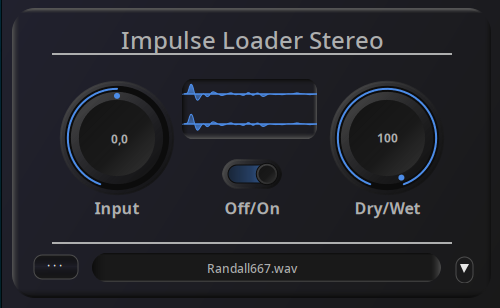
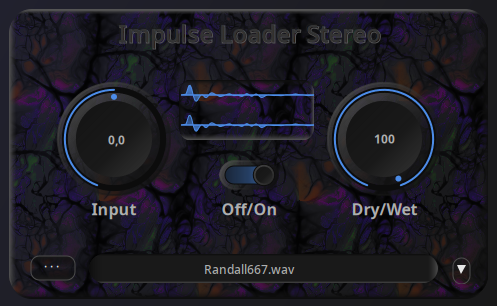
Implement background texture

diff --git a/ImpulseLoader/lv2_plugin.cc b/ImpulseLoader/lv2_plugin.cc
@@ -120,6 +120,12 @@ static void draw_window(void *w_, void* user_data) {
     cairo_paint (w->crb);
     round_rectangle(w->crb, 10 * w->app->hdpi, 10 * w->app->hdpi,
         w->width-20 * w->app->hdpi, w->height-20 * w->app->hdpi, 0.08);
+
+    cairo_pattern_t *pat = cairo_pattern_create_for_surface(w->image);
+    cairo_pattern_set_extend (pat, CAIRO_EXTEND_REPEAT);
+    cairo_set_source(w->crb, pat);
+    cairo_fill_preserve (w->crb);
+
     boxShadowOutset(w->crb,10 * w->app->hdpi,10 * w->app->hdpi,
         w->width-20 * w->app->hdpi,w->height-20 * w->app->hdpi, true);
     cairo_stroke (w->crb);
@@ -133,10 +139,7 @@ static void draw_window(void *w_, void* user_data) {
 #endif
 
     widget_set_scale(w);
-    cairo_move_to (w->crb, 50 * w->app->hdpi, w->scale.init_height-65 * w->app->hdpi );
-    cairo_line_to (w->crb, 450 * w->app->hdpi, w->scale.init_height-65 * w->app->hdpi );
-    use_text_color_scheme(w, NORMAL_);
-    cairo_stroke (w->crb);
+
     cairo_set_source_rgba(w->crb, 0.1, 0.1, 0.1, 1);
     round_rectangle(w->crb, 90 * w->app->hdpi, w->scale.init_height-55 * w->app->hdpi,
                                             350 * w->app->hdpi, 30 * w->app->hdpi, 0.5);
@@ -144,10 +147,7 @@ static void draw_window(void *w_, void* user_data) {
     boxShadowInset(w->crb,90 * w->app->hdpi,w->scale.init_height-55 * w->app->hdpi,
                                             350 * w->app->hdpi, 30 * w->app->hdpi, true);
     cairo_fill (w->crb);
-    if (w->image) {
-        cairo_set_source_surface (w->crb, w->image, 0, 0);
-        cairo_paint (w->crb);
-    }
+
     use_text_color_scheme(w, get_color_state(w));
 #ifdef USE_ATOM
     X11_UI* ui = (X11_UI*)w->parent_struct;
@@ -178,12 +178,22 @@ static void draw_window(void *w_, void* user_data) {
 #endif
 #ifndef HIDE_NAME
     cairo_set_font_size (w->crb, w->app->big_font+8);
-    cairo_move_to (w->crb, (w->scale.init_width*0.5)-tw, w->scale.init_y+50 * w->app->hdpi);
-    cairo_show_text(w->crb, w->label);
-    cairo_move_to (w->crb, 50 * w->app->hdpi, w->scale.init_y+55 * w->app->hdpi);
-    cairo_line_to (w->crb, 450 * w->app->hdpi, w->scale.init_y+55 * w->app->hdpi);
-    use_text_color_scheme(w, NORMAL_);
+
+    cairo_move_to (w->crb, (w->scale.init_width*0.5)-tw-1, (w->scale.init_y+42 * w->app->hdpi)-1);
+    cairo_text_path(w->crb, w->label);
+    cairo_set_line_width(w->crb, 1);
+    cairo_set_source_rgba(w->crb, 0.1, 0.1, 0.1, 1);
     cairo_stroke (w->crb);
+
+    cairo_move_to (w->crb, (w->scale.init_width*0.5)-tw+1, (w->scale.init_y+42 * w->app->hdpi)+1);
+    cairo_text_path(w->crb, w->label);
+    cairo_set_line_width(w->crb, 1);
+    cairo_set_source_rgba(w->crb, 0.33, 0.33, 0.33, 1);
+    cairo_stroke (w->crb);
+
+    cairo_set_source_rgba(w->crb, 0.2, 0.2, 0.2, 1);
+    cairo_move_to (w->crb, (w->scale.init_width*0.5)-tw, w->scale.init_y+42 * w->app->hdpi);
+    cairo_show_text(w->crb, w->label);
 #endif
     widget_reset_scale(w);
     cairo_new_path (w->crb);
@@ -758,6 +768,7 @@ static LV2UI_Handle instantiate(const LV2UI_Descriptor * descriptor,
     ui->win = create_window(&ui->main, (Window)ui->parentXwindow, 0, 0, w, h);
     ui->win->parent_struct = ui;
     ui->win->label = plugin_set_name();
+    widget_get_png(ui->win, LDVAR(texture_png));
     // connect the expose func
     ui->win->func.expose_callback = draw_window;
     // create controller widgets

diff --git a/ImpulseLoader/ImpulseLoader.cpp b/ImpulseLoader/ImpulseLoader.cpp
@@ -204,6 +204,7 @@ void XImpulseLoader::init_dsp_(uint32_t rate, uint32_t bufsize_)
 {
     plugin1->init(rate);
     plugin2->init(rate);
+    ir_file = "None";
     s_rate = rate;
     if (!rt_policy) rt_policy = SCHED_FIFO;
     // set values for internal ramping
@@ -278,6 +279,7 @@ void XImpulseLoader::do_work_mono()
     preampconv.configure(ir_file, 1.0, 1.0, 0, 0, 0, 0, 0, 0);
     while (!preampconv.checkstate());
     if(!preampconv.start(rt_prio, rt_policy)) {
+        ir_file = "None";
         printf("preamp impulse convolver update fail\n");
     } else {
         _execute.store(false, std::memory_order_release);

diff --git a/ImpulseLoader/ImpulseLoader.c b/ImpulseLoader/ImpulseLoader.c
@@ -466,6 +466,11 @@ void plugin_port_event(LV2UI_Handle handle, uint32_t port_index,
                             free(irdata);
                             expose_widget(ui->win);
                         }
+                    } else {
+                        free(ps->filename);
+                        ps->filename = NULL;
+                        ps->filename = "None";
+                        expose_widget(ui->win);
                     }
                 } else {
                     const LV2_Atom* value = NULL;
